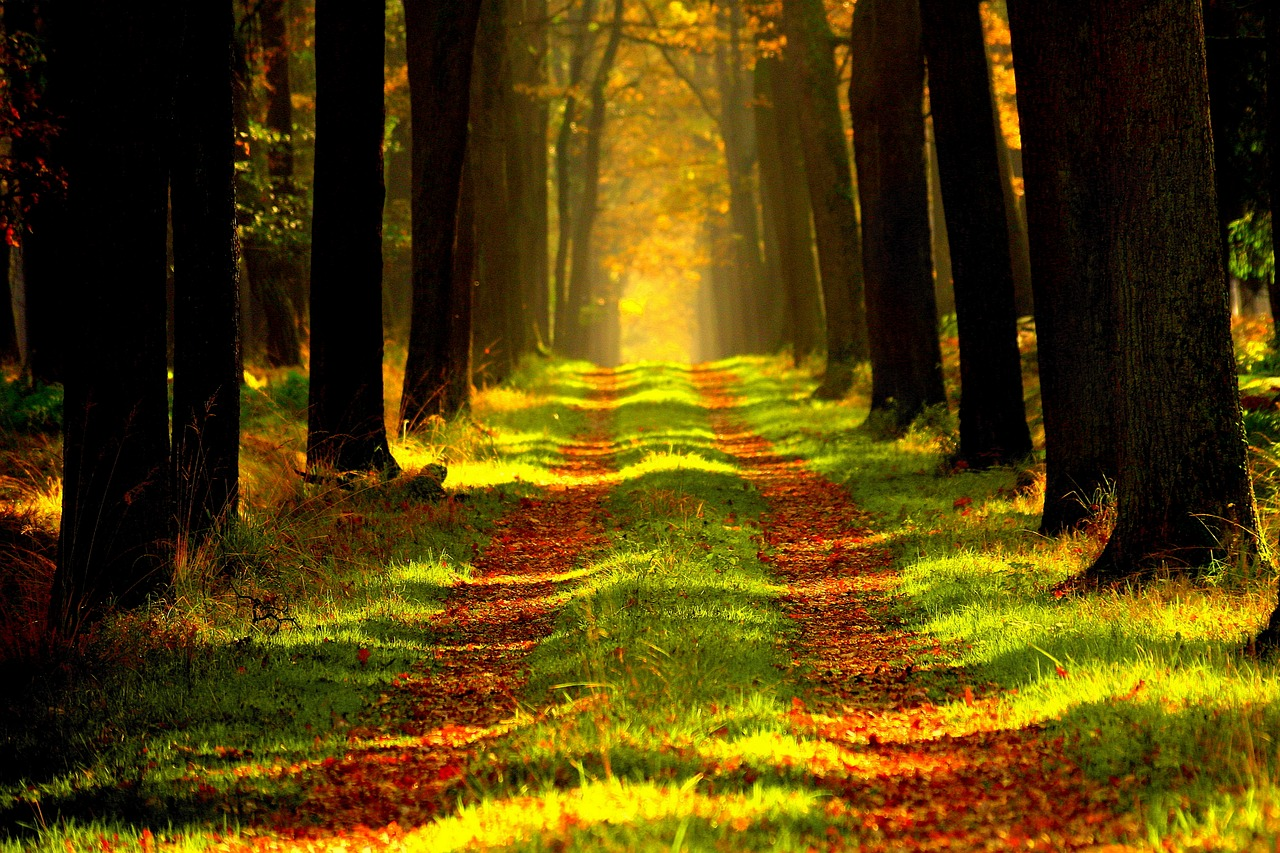
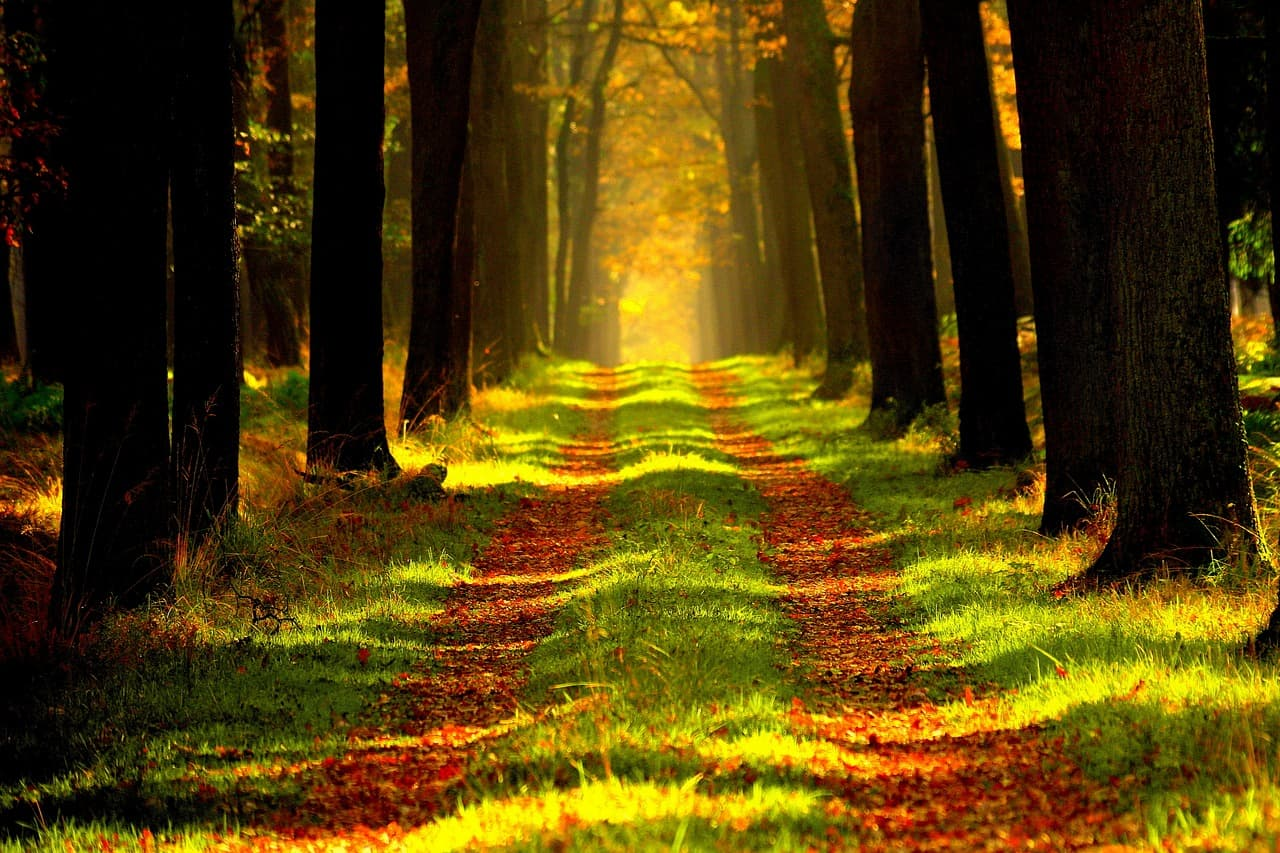
sumé ajustes inclusivos y comprimí imagenes

diff --git a/index.html b/index.html
@@ -1,5 +1,5 @@
 <!DOCTYPE html>
-<html lang="en">
+<html lang="es">
 <head>
     <meta charset="UTF-8">
     <meta name="viewport" content="width=device-width, initial-scale=1.0">
@@ -7,6 +7,7 @@
     <meta name="description" content="Acompañamiento en limpieza hepática profunda y/o nutrición natural. 
     Procesos depurativos conscientes para mejorar digestión, energía y bienestar integral,
     guía personalizada y enfoque holístico.">
+     
     <!-- Bootstrap -->
     <link href="https://cdn.jsdelivr.net/npm/bootstrap@5.3.8/dist/css/bootstrap.min.css" rel="stylesheet" integrity="sha384-sRIl4kxILFvY47J16cr9ZwB07vP4J8+LH7qKQnuqkuIAvNWLzeN8tE5YBujZqJLB" crossorigin="anonymous">
    <!-- ANIMATE -->
@@ -15,12 +16,12 @@
     <link rel="stylesheet" href="./styles/style.css">
     <title>Home - Nani Villa</title>
 </head>
-<body class="fondo-home">
+<body class="fondo-home"role="img" aria-label="Bosque en tonos verdes y luz suave de fondo">
 
 <header class="navbar navbar-expand-lg custom-header">
     <div class="container-fluid">
         <a href="#">
-            <img class="nani-logo" src="./assets/WhatsApp Image 2025-10-28 at 09.54.19.jpeg" alt="Logo Nani Villa">
+            <img class="nani-logo" src="./assets/WhatsApp Image 2025-10-28 at 09.54.19.jpeg" alt="flor de loto con el nombre Nani Villa, sobre un fondo oscuro">
         </a>
 
         <button class="navbar-toggler" type="button" data-bs-toggle="collapse" data-bs-target="#menuNani"

diff --git a/pages/inicio.html b/pages/inicio.html
@@ -11,7 +11,7 @@
     <link rel="stylesheet" href="../styles/style.css">
     <title>Inicio - Nani Villa</title>
 </head>
-<body class="inicio-img">
+<body class="inicio-img"  role="img" aria-label="Persona caminando hacia el mar al atardecer, en contraluz, con reflejo de luz sobre el agua">
 
 <header>
     <nav class="navbar navbar-expand-lg bg-dark navbar-dark fixed-top">

diff --git a/pages/recetas.html b/pages/recetas.html
@@ -15,7 +15,7 @@
     <link rel="stylesheet" href="../styles/style.css">
     <title>Recetas</title>
 </head>
-<body class="fondo-recetas">
+<body class="fondo-recetas" role="img" aria-label="Mini tarta de crema de castañas y limón sobre plato blanco" >
     
 <header>
   <nav class="navbar navbar-expand-lg bg-dark navbar-dark fixed-top">

diff --git a/pages/sobremi.html b/pages/sobremi.html
@@ -15,7 +15,7 @@
     <link rel="stylesheet" href="../styles/style.css">
     <title>Sobre mí</title>
 </head>
-<body class="sobremi-img">
+<body class="sobremi-img" role="img" aria-label="Persona sobre una piedra mirando el mar al atardecer" >
 
 <header>
     <nav class="navbar navbar-expand-lg bg-dark navbar-dark fixed-top">

diff --git a/pages/reservar.html b/pages/reservar.html
@@ -57,7 +57,7 @@
       Comenzá tu proceso hoy mismo, escribime y te guío paso a paso.
     </p>
 
-    <a href="https://wa.me/TU_NUMERO" target="_blank" class="btn-fermento">
+    <a href="https://linktr.ee/nanivilla" target="_blank" class="btn-fermento">
       💛 Escribirme por WhatsApp
     </a>
 

diff --git a/pages/contacto.html b/pages/contacto.html
@@ -28,7 +28,7 @@
     
     <title>Contacto</title>
 </head>
-<body class="contacto-img">
+<body class="contacto-img" role="img" aria-label="Vaso de bebida verde natural con plantas de fondo">
 
 <header>
   <nav class="navbar navbar-expand-lg bg-dark navbar-dark fixed-top">

diff --git a/styles/style.css b/styles/style.css
@@ -284,9 +284,7 @@ header, .custom-header {
   background: #f3e957;
 }
 
-/* ===============================
-   RESPONSIVE GLOBAL
-   =============================== */
+/*RESPONSIVE*/
 /* HEADER / NAV - tablets */
 @media (max-width: 991px) {
   .navbar-nav {
